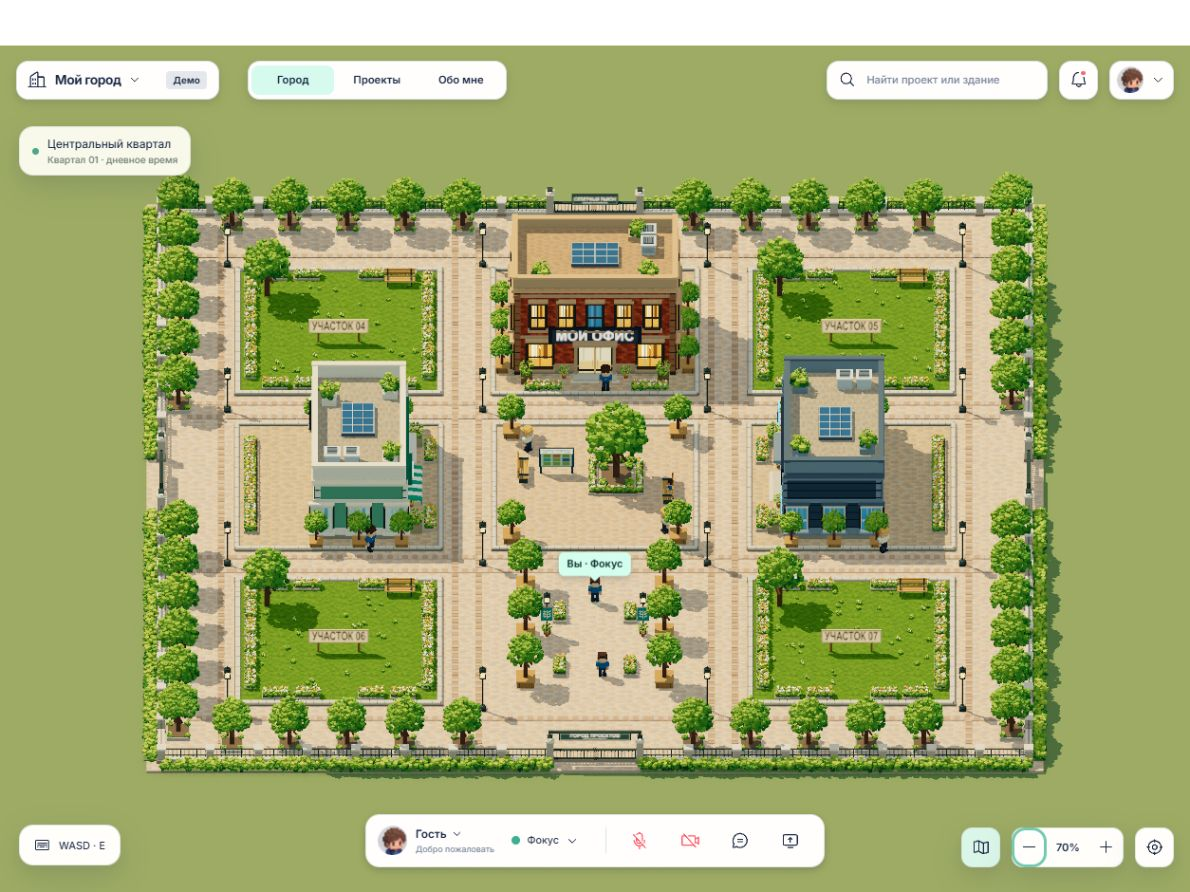
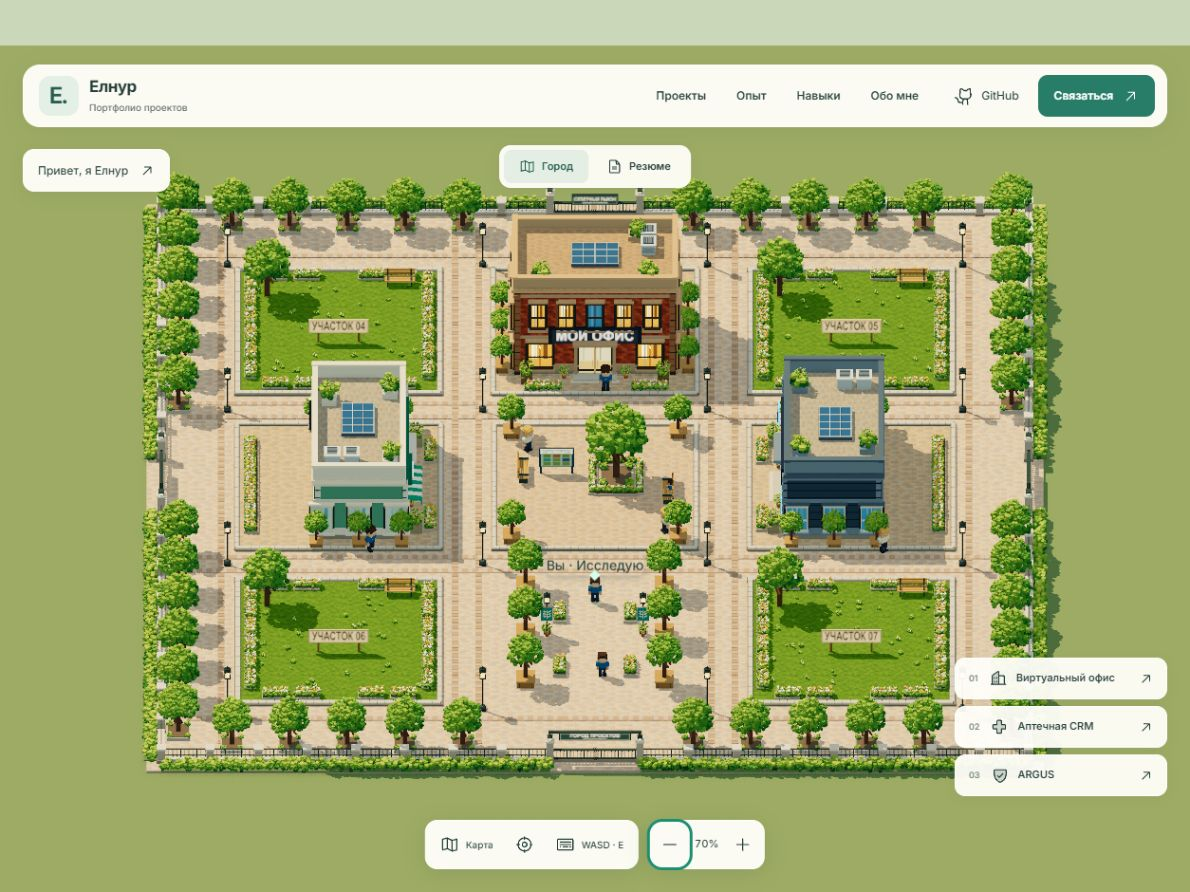
Record perimeter verification with the current portfolio interface

diff --git a/city-demo/qa/city-boundaries.md b/city-demo/qa/city-boundaries.md
@@ -14,3 +14,5 @@ Validation used the isolated `city-facing-plaza` worktree with the previously ve
 - Browser console: no JavaScript errors. Missing-model list empty.
 
 Screenshots: [whole quarter](city-boundaries-overview.jpg), [main gate](city-boundaries-gate.jpg). These are captures of the running 3D application.
+
+Integration check: the portfolio interface (`7775749`) arrived while this task was being verified. The exact committed source at `698fe2d`, including that interface, was then exported into the same isolated preview and rebuilt: **66/66 tests passed**, production build passed, and the current portfolio view displayed the perimeter without JavaScript errors. The overview screenshot was refreshed from this combined build; the gate close-up records the earlier movement check with unchanged scene and navigation code.
